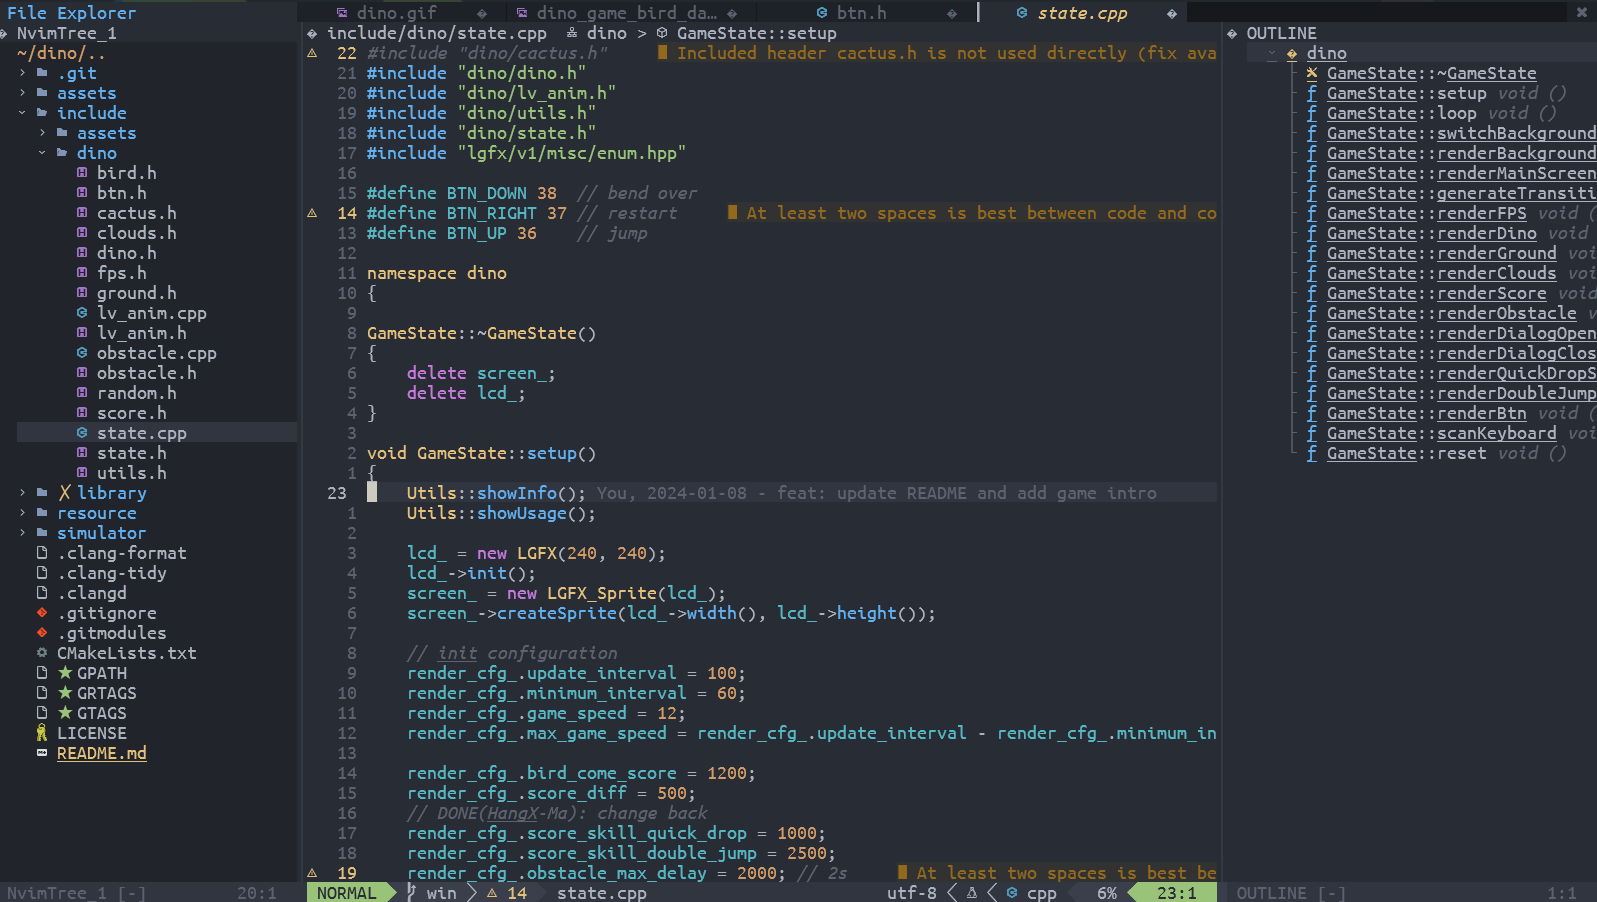
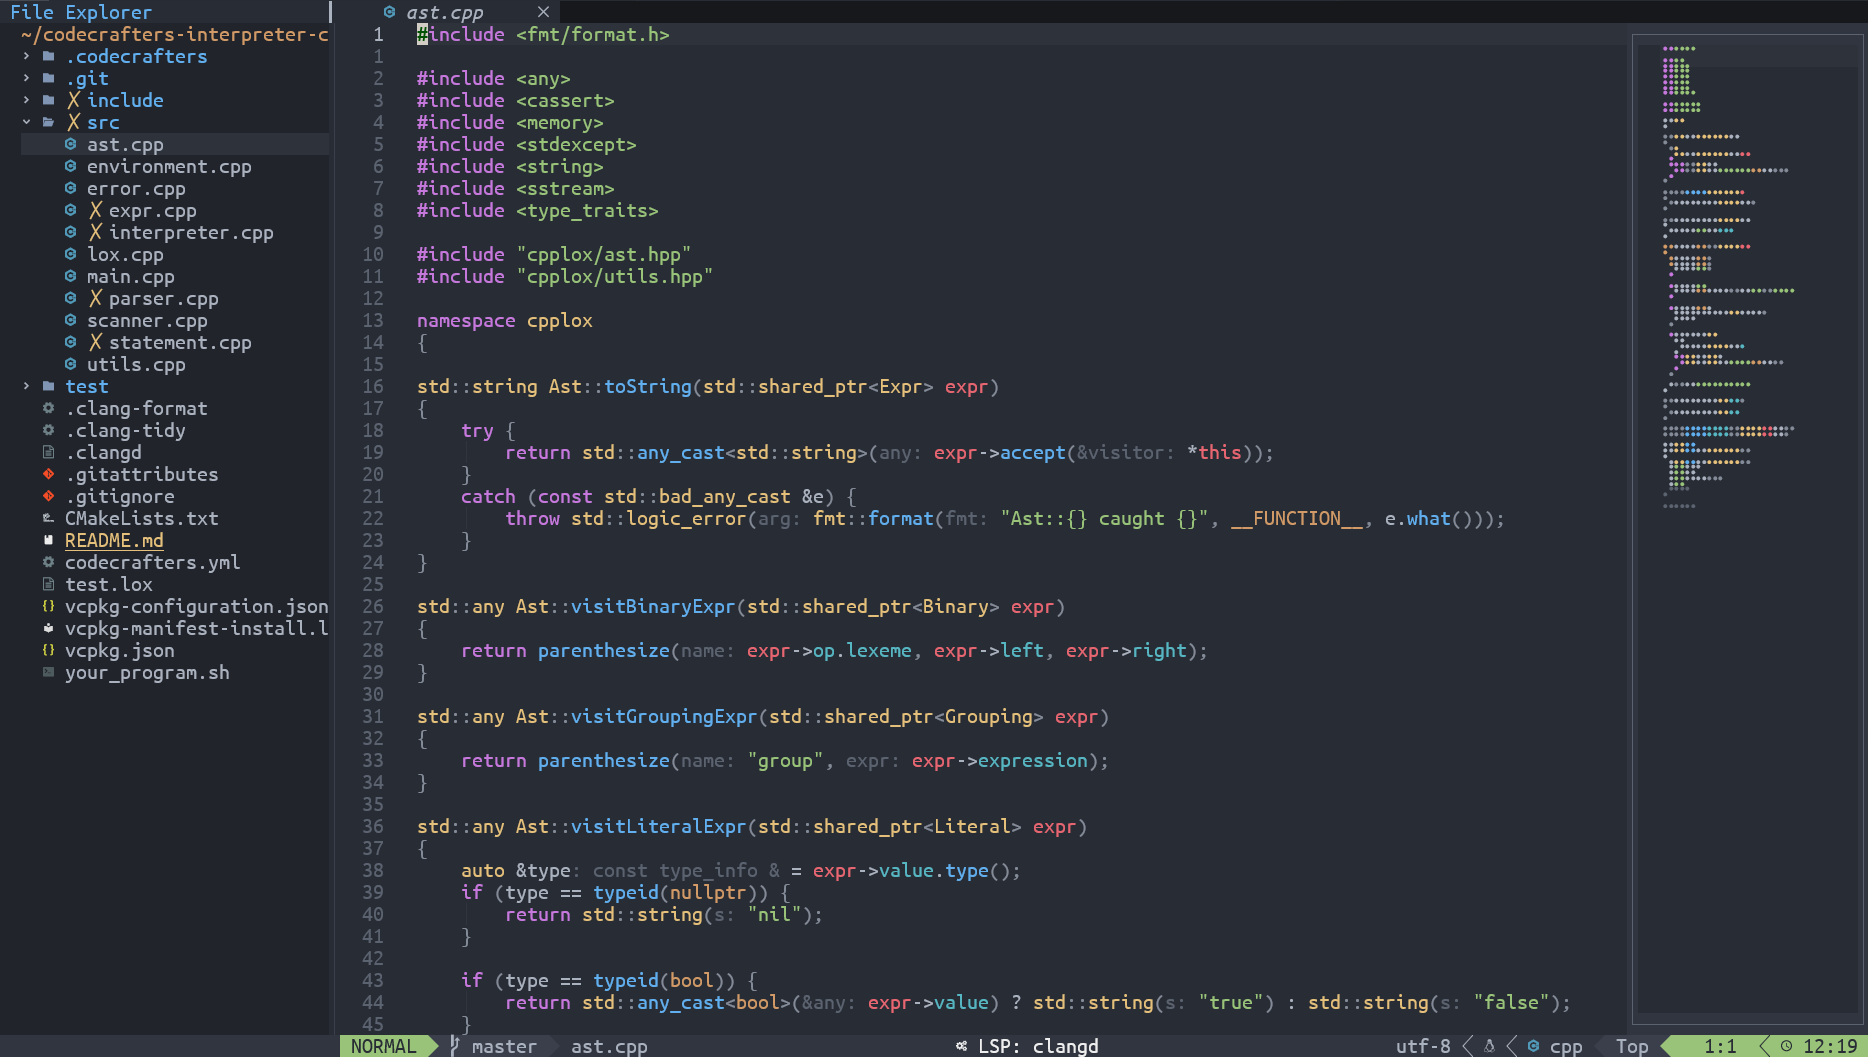
docs: update assets and README.md

diff --git a/nvim/README.md b/nvim/README.md
@@ -5,7 +5,7 @@ You can follow the steps in this `README` file or read the blog [\[Start from sc
 <div class="dino" align="center">
   <table>
     <tr>
-      <td><img src="./assets/nvim-statup.png" alt="Neovim: Statup Page" width=500 />
+      <td><img src="./assets/nvim-startup.png" alt="Neovim: Statup Page" width=500 />
       <td><img src="./assets/nvim-main.png" alt="Neovim: Main Page" width=500 />
     </tr>
     <tr>
